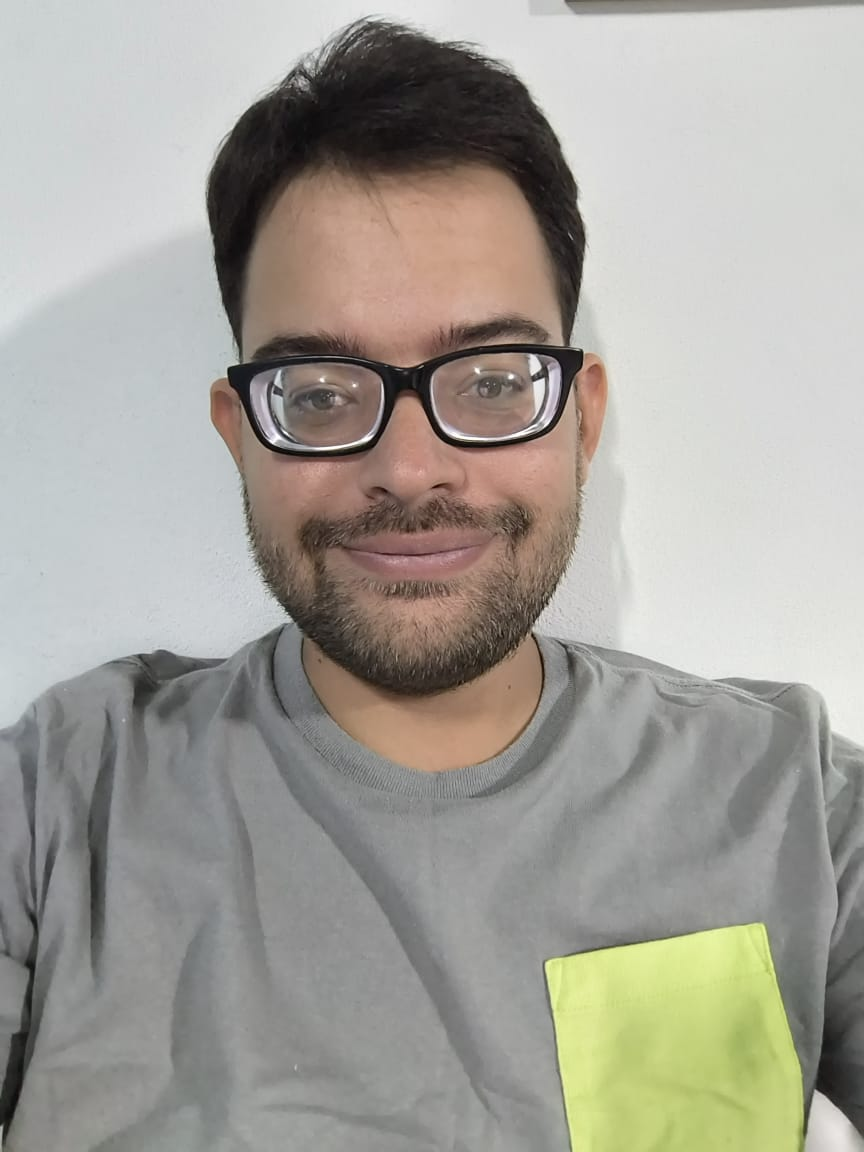
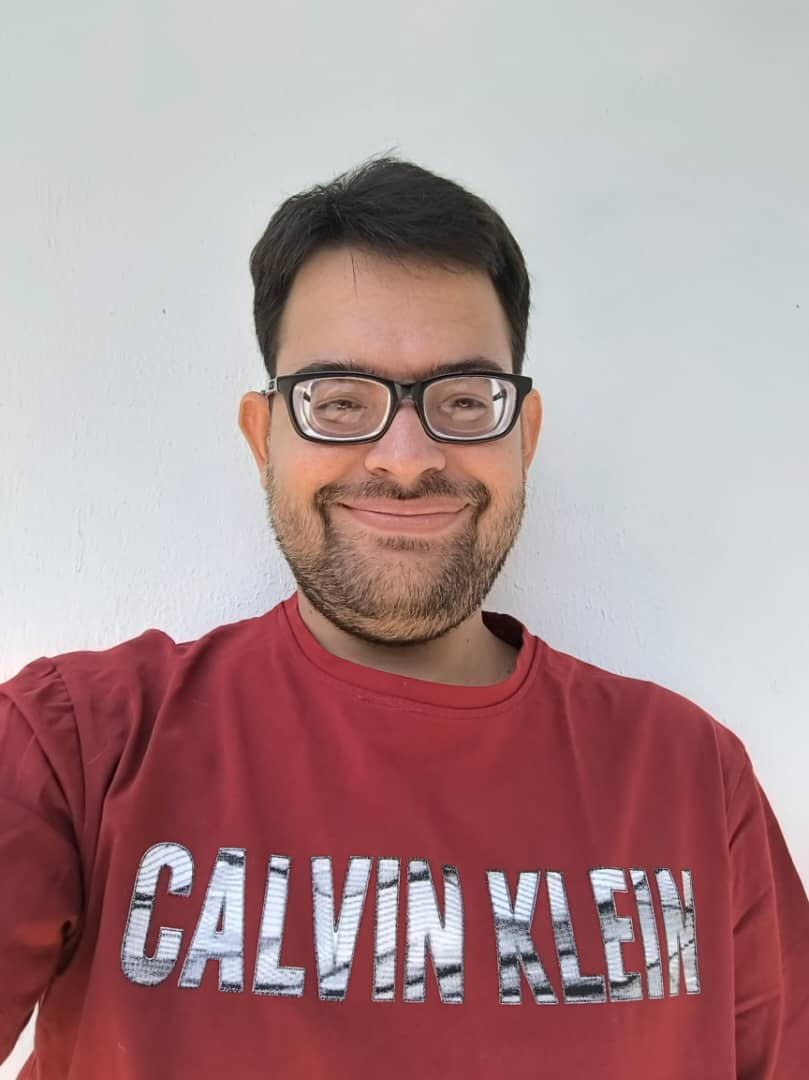
update img

diff --git a/index.html b/index.html
@@ -40,7 +40,7 @@
     <div class="d-flex flex-column">
 
       <div class="profile">
-        <img src="assets/img/profile.jpeg" alt="" class="img-fluid rounded-circle">
+        <img src="assets/img/profile.jpeg?v=2" alt="" class="img-fluid rounded-circle">
         <h1 class="text-light"><a href="index.html">Angel Goitia</a></h1>
         <div class="social-links mt-3 text-center">
           <a href="https://www.facebook.com/angel.goitia" class="facebook"><i class="bx bxl-facebook"></i></a>
@@ -84,7 +84,7 @@
 
         <div class="row">
           <div class="col-lg-4" data-aos="fade-right">
-            <img src="assets/img/profile.jpeg" class="img-fluid" alt="" max>
+            <img src="assets/img/profile.jpeg?v=2" class="img-fluid" alt="" max>
           </div>
           <div class="col-lg-8 pt-4 pt-lg-0 content d-none d-md-block d-lg-block" data-aos="fade-left">
             <h3>Datos Personales.</h3>
